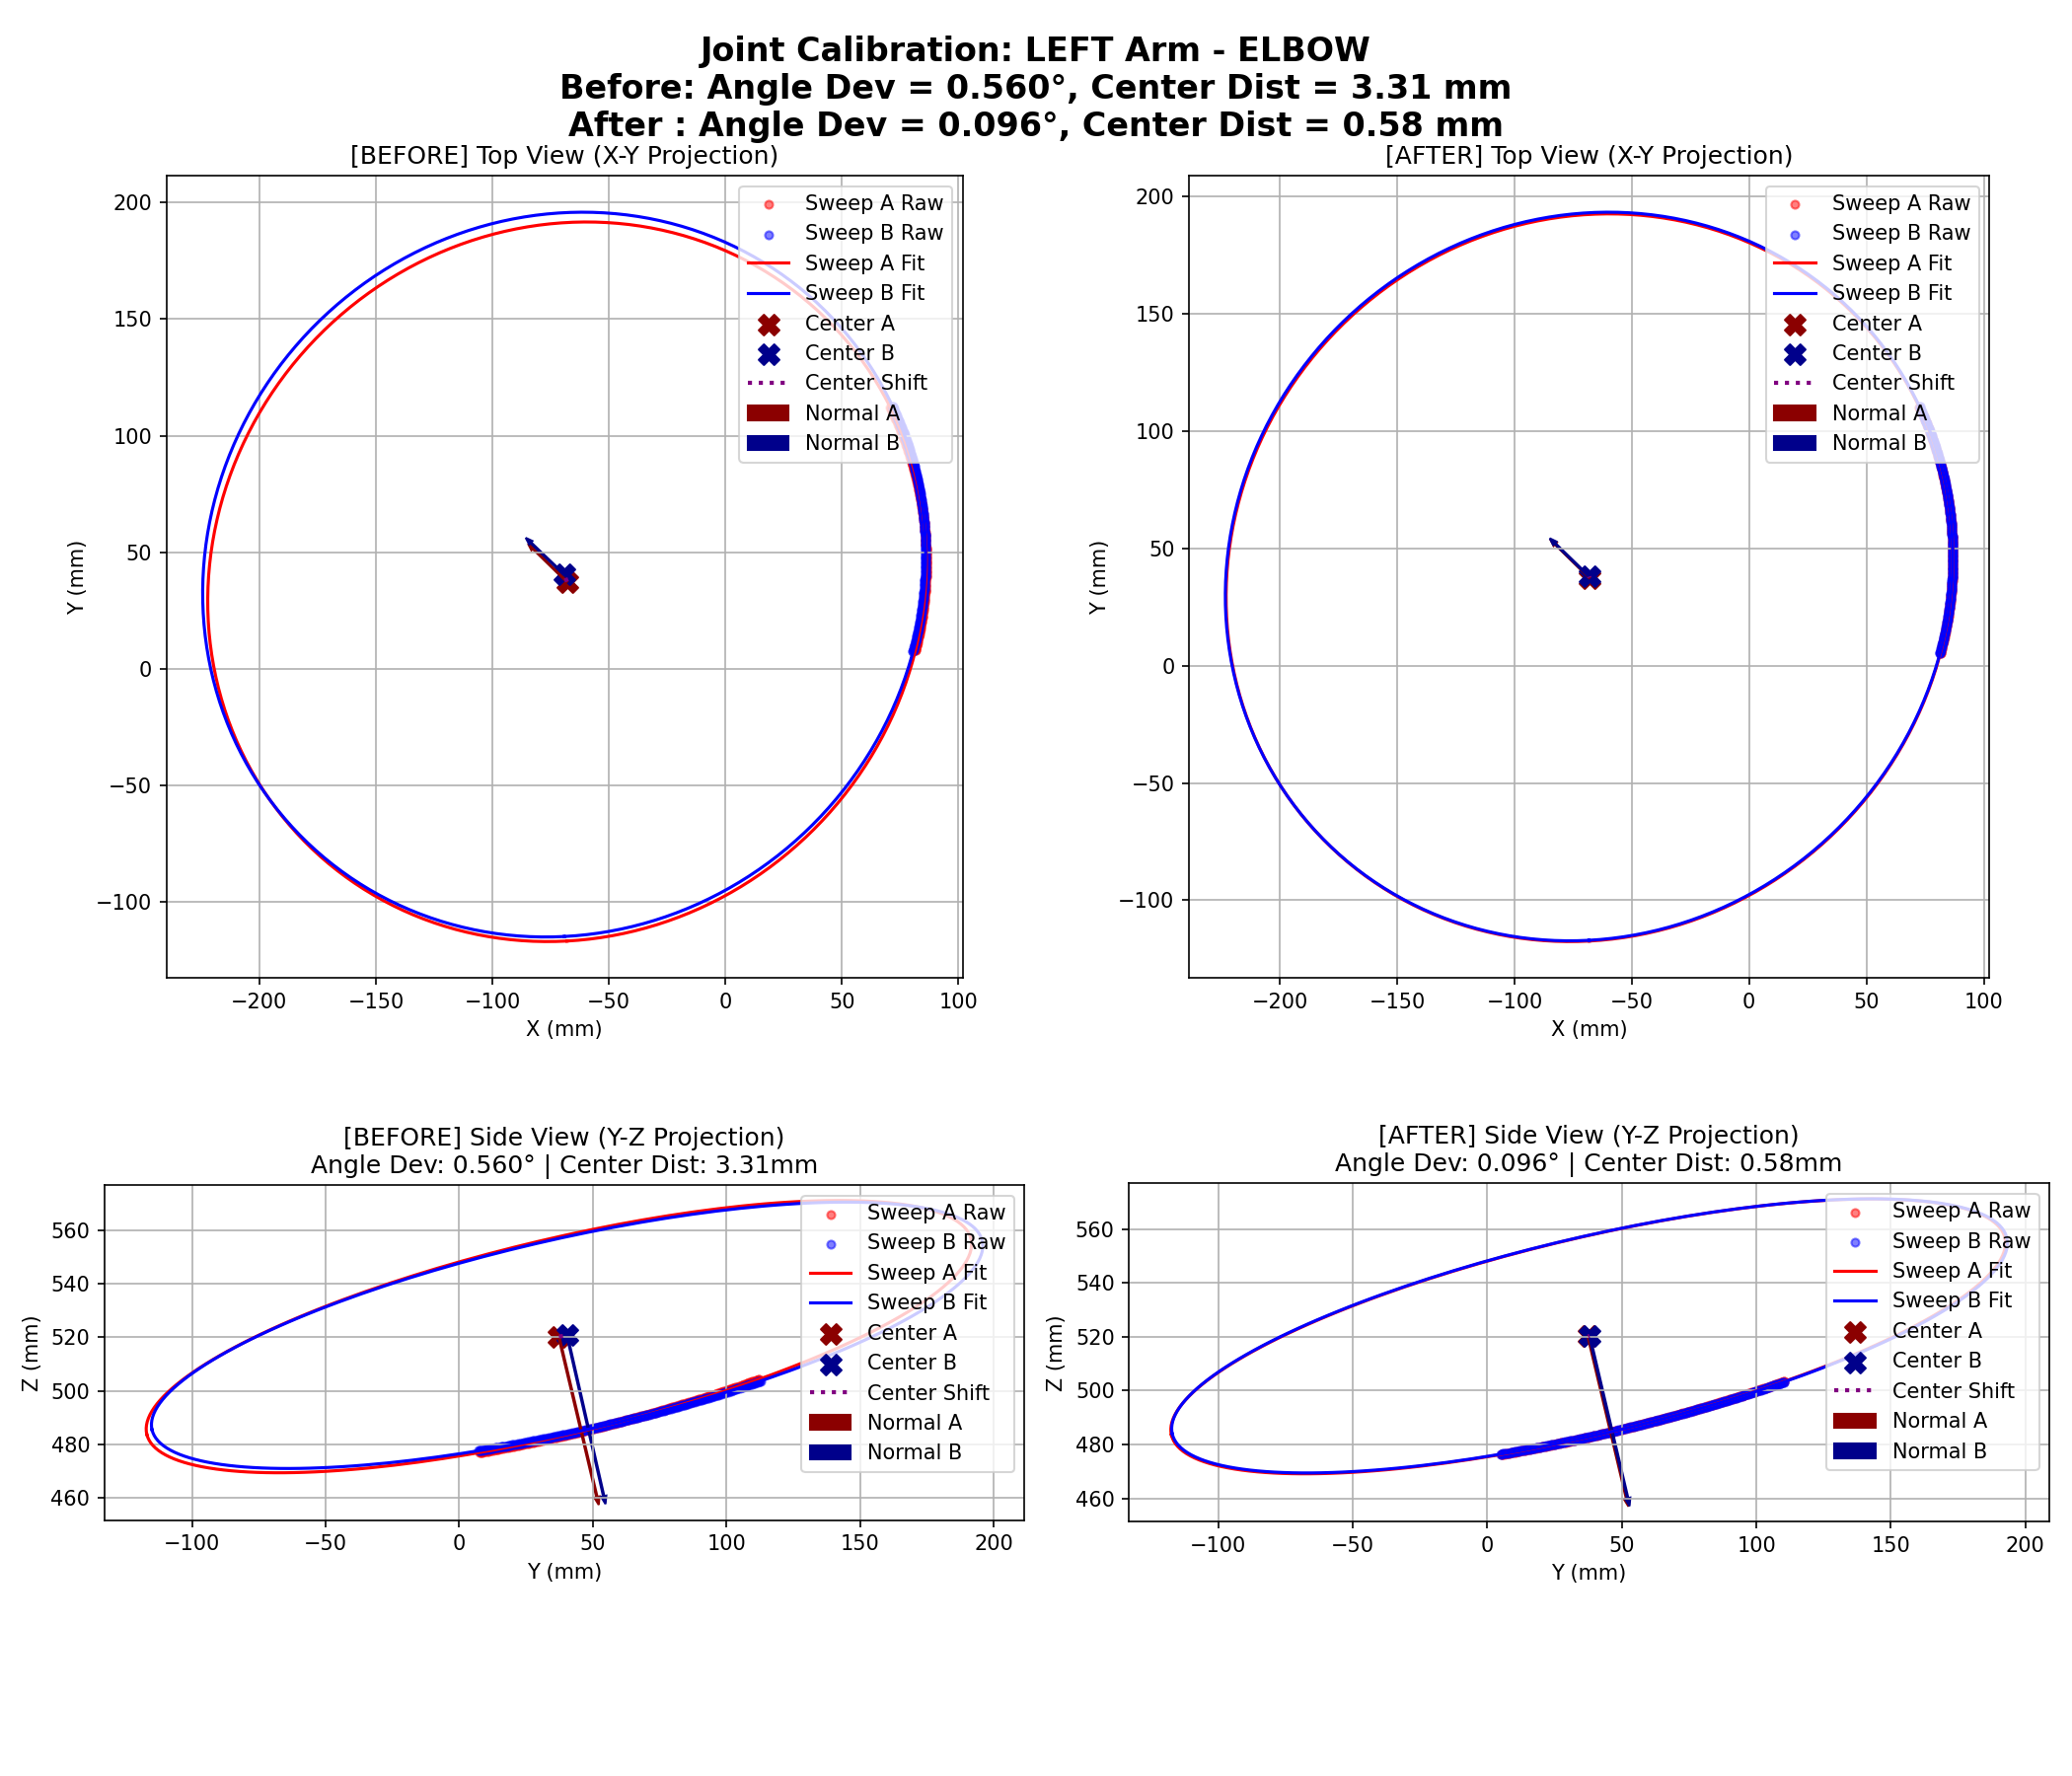
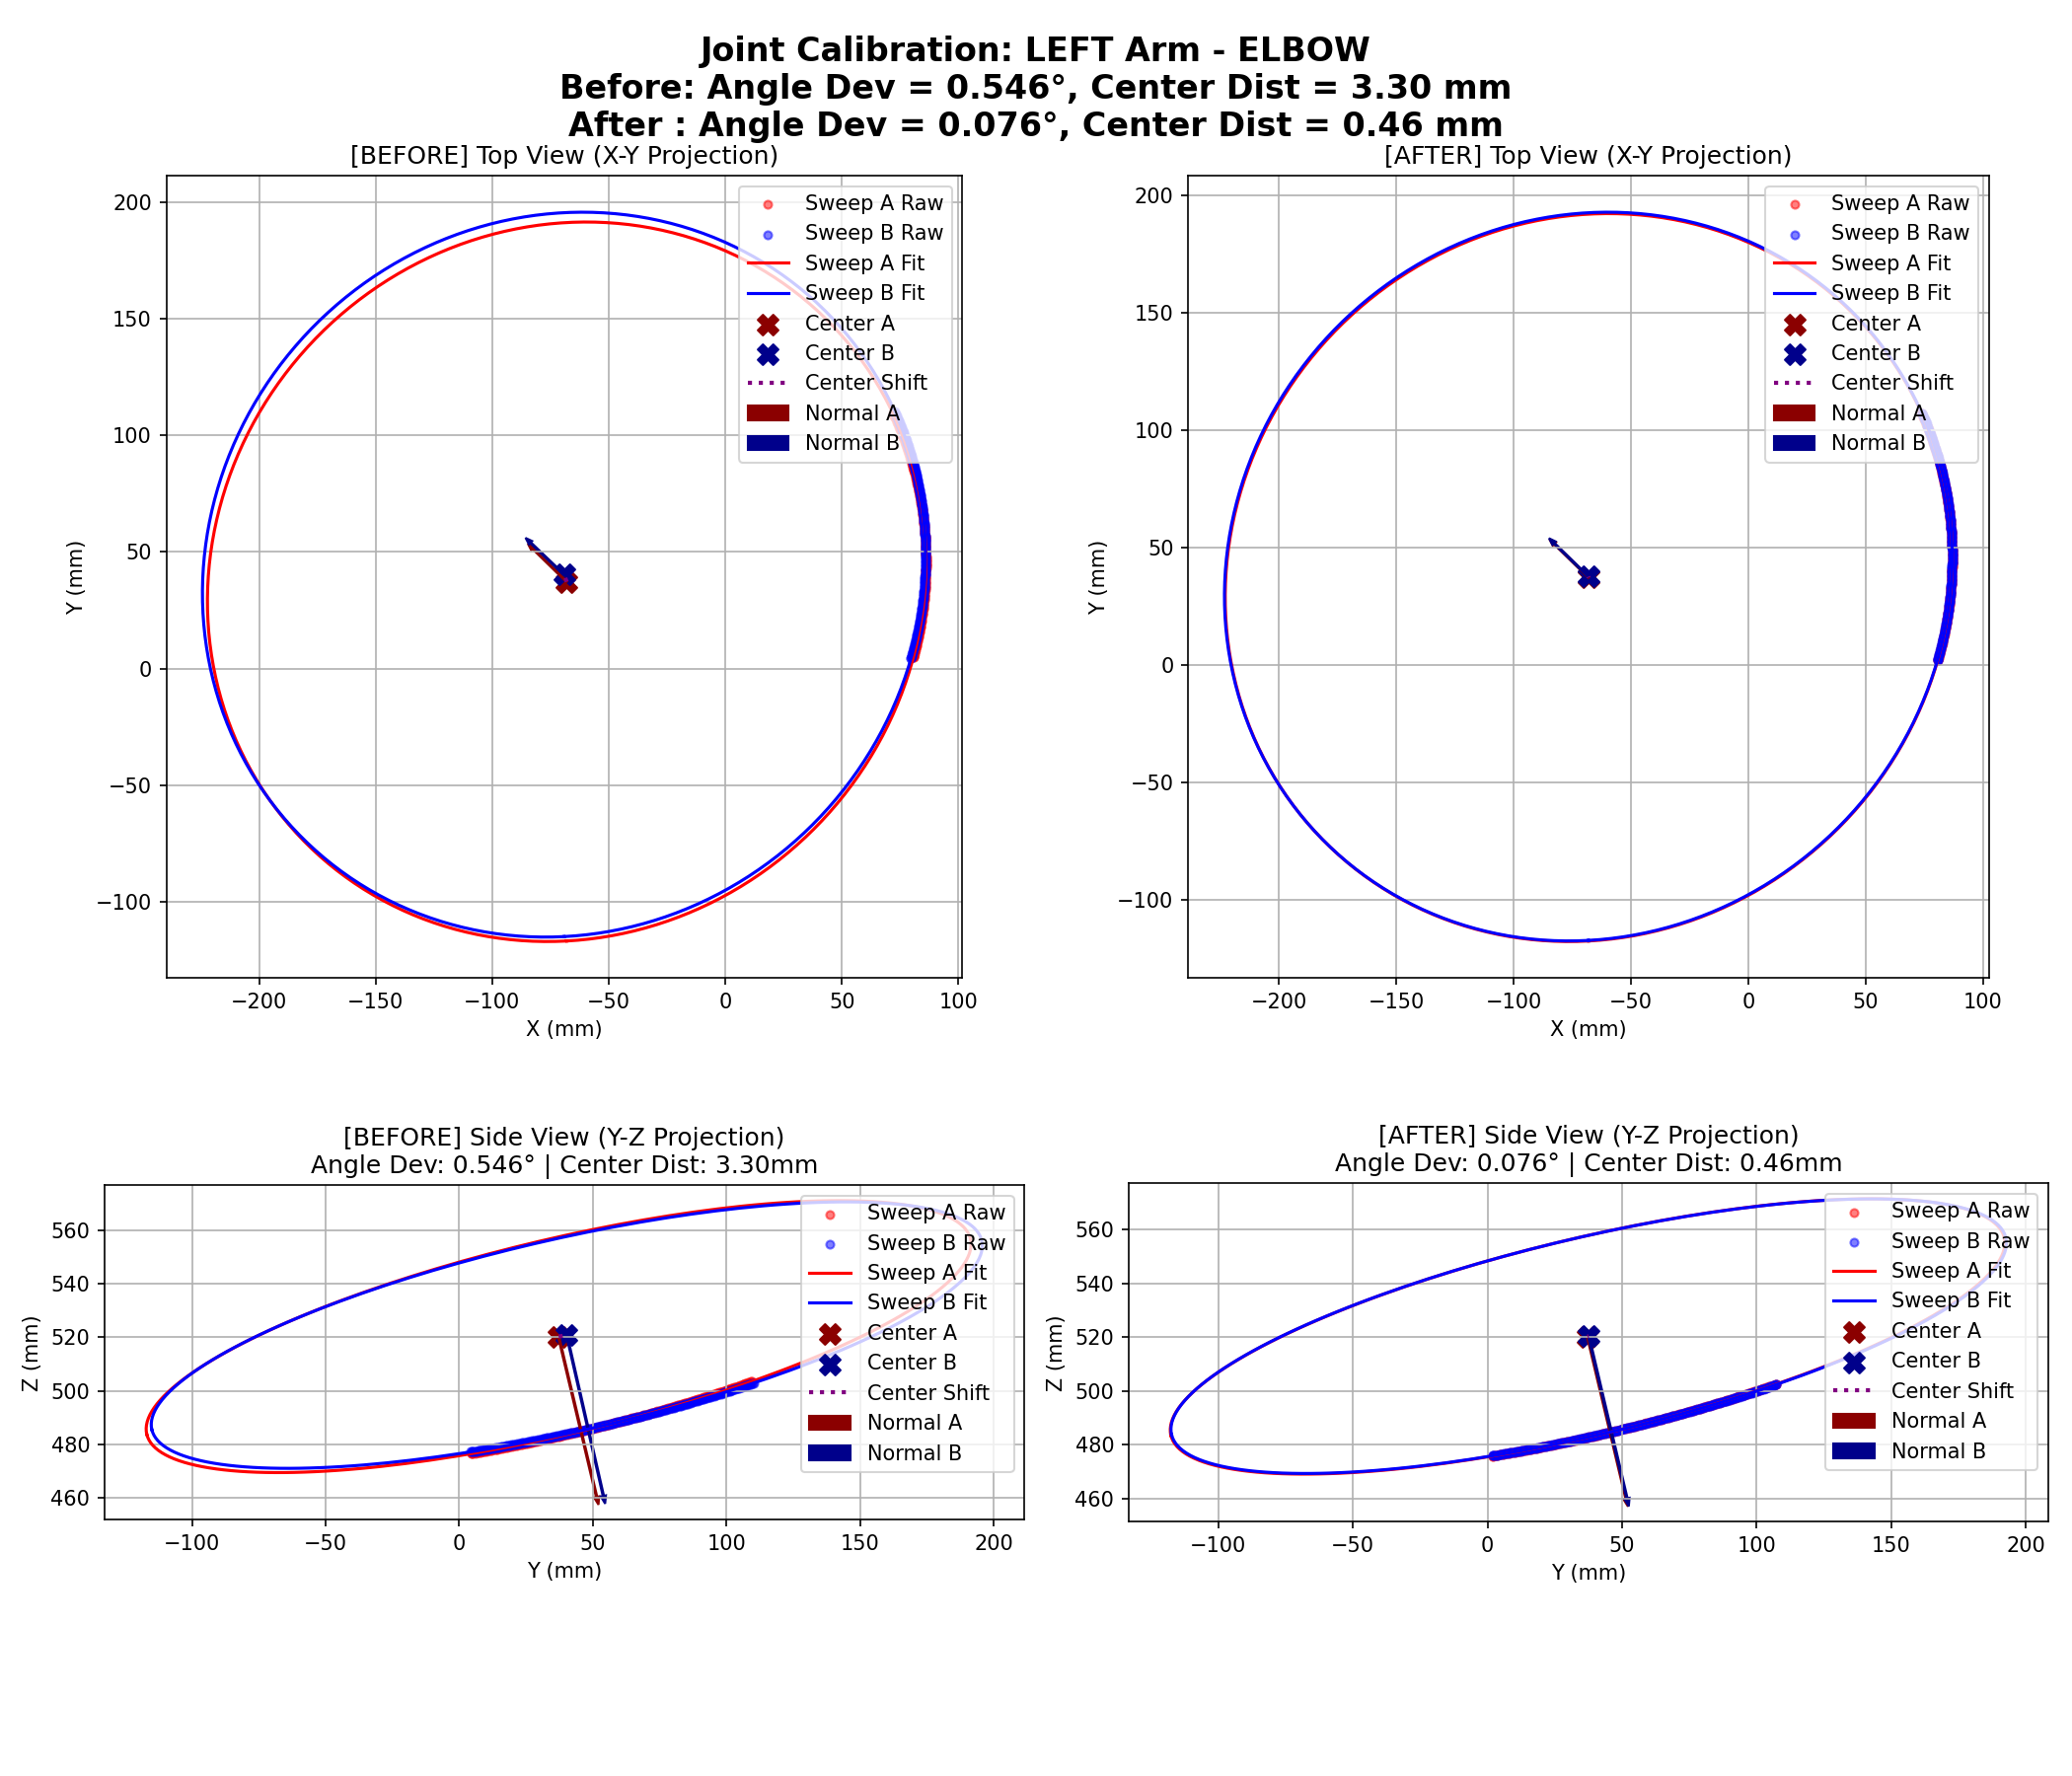
update files

diff --git a/core/calibration_optimizer.py b/core/calibration_optimizer.py
@@ -414,18 +414,7 @@ class QPCalibrationOptimizer:
             # q_upper[12] =  0.1 * D2R# lep
 
             if getattr(self, 'apply_joint_offset_limits', False) and getattr(self, 'joint_offsets_to_apply', None) is not None:
-                jo = self.joint_offsets_to_apply
-                
-                # Check version
-                is_v13 = False
-                if self.robot and self.robot != "mock_robot":
-                    try:
-                        info = self.robot.get_robot_info()
-                        if "1.3" in info.robot_model_version:
-                            is_v13 = True
-                    except:
-                        pass
-                
+                jo = self.joint_offsets_to_apply  
                 r_j3 = jo.get("right", {}).get("joint3", 0.0)
                 l_j3 = jo.get("left", {}).get("joint3", 0.0)
 
@@ -438,35 +427,19 @@ class QPCalibrationOptimizer:
                 v2_l3 = (-l_j3 + 0.001) * D2R
                 q_lower[10] = min(v1_l3, v2_l3)
                 q_upper[10] = max(v1_l3, v2_l3)
-
-                if is_v13:
-                    # In 1.3, Joint 6 is calibrated instead of Joint 5
-                    r_j6 = jo.get("right", {}).get("joint6", jo.get("right", {}).get("joint5", 0.0))
-                    l_j6 = jo.get("left", {}).get("joint6", jo.get("left", {}).get("joint5", 0.0))
+                # In 1.2, Joint 5 is calibrated
+                r_j5 = jo.get("right", {}).get("joint5", 0.0)
+                l_j5 = jo.get("left", {}).get("joint5", 0.0)
                     
-                    v1_r6 = (-r_j6 - 0.001) * D2R
-                    v2_r6 = (-r_j6 + 0.001) * D2R
-                    q_lower[6] = min(v1_r6, v2_r6)
-                    q_upper[6] = max(v1_r6, v2_r6)
+                v1_r5 = (-r_j5 - 0.001) * D2R
+                v2_r5 = (-r_j5 + 0.001) * D2R
+                q_lower[5] = min(v1_r5, v2_r5)
+                q_upper[5] = max(v1_r5, v2_r5)
 
-                    v1_l6 = (-l_j6 - 0.001) * D2R
-                    v2_l6 = (-l_j6 + 0.001) * D2R
-                    q_lower[13] = min(v1_l6, v2_l6)
-                    q_upper[13] = max(v1_l6, v2_l6)
-                else:
-                    # In 1.2, Joint 5 is calibrated
-                    r_j5 = jo.get("right", {}).get("joint5", 0.0)
-                    l_j5 = jo.get("left", {}).get("joint5", 0.0)
-                    
-                    v1_r5 = (-r_j5 - 0.001) * D2R
-                    v2_r5 = (-r_j5 + 0.001) * D2R
-                    q_lower[5] = min(v1_r5, v2_r5)
-                    q_upper[5] = max(v1_r5, v2_r5)
-
-                    v1_l5 = (-l_j5 - 0.001) * D2R
-                    v2_l5 = (-l_j5 + 0.001) * D2R
-                    q_lower[12] = min(v1_l5, v2_l5)
-                    q_upper[12] = max(v1_l5, v2_l5)
+                v1_l5 = (-l_j5 - 0.001) * D2R
+                v2_l5 = (-l_j5 + 0.001) * D2R
+                q_lower[12] = min(v1_l5, v2_l5)
+                q_upper[12] = max(v1_l5, v2_l5)
 
             lower_parts.append(q_lower)
             upper_parts.append(q_upper)
@@ -1326,96 +1299,3 @@ class CalibrationOptimizer:
         mount_to_cam_new = self.get_calibrated_mount_to_cam(xi_cam)
         head_base_to_cam_new = self.get_calibrated_head_base_to_cam(xi_cam)
         return q_arm_offset, q_head_offset, xi_cam, mount_to_cam_new, head_base_to_cam_new
-
-
-def optimize_with_divergence_check(optimizer, q_arm_list, q_head_list, T_meas_list):
-    """
-    Runs the optimization loop on an optimizer instance (either QPCalibrationOptimizer or CalibrationOptimizer)
-    with divergence detection and safe state recovery.
-    """
-    if optimizer.use_head_kinematics and q_head_list is None:
-        raise RuntimeError(
-            "Head kinematics are enabled for this ndof, but q_head_list is missing."
-        )
-
-    q_arm_offset = np.zeros(len(optimizer.arm_idx))
-    q_head_offset = np.zeros(len(optimizer.head_idx)) if optimizer.optimize_head else None
-    xi_cam = np.zeros(6)
-
-    best_err = float('inf')
-    best_q_arm_offset = q_arm_offset.copy()
-    best_q_head_offset = q_head_offset.copy() if q_head_offset is not None else None
-    best_xi_cam = xi_cam.copy()
-    consecutive_increases = 0
-
-    for it in range(optimizer.max_iter):
-        try:
-            dx, total_err = optimizer.compute_step(
-                q_arm_list,
-                q_head_list,
-                T_meas_list,
-                q_arm_offset,
-                q_head_offset,
-                xi_cam,
-            )
-        except Exception as e:
-            print(f"[WARNING] Optimization step failed with exception: {e} at iteration {it}! Reverting to best parameters and halting.")
-            q_arm_offset = best_q_arm_offset.copy()
-            if q_head_offset is not None:
-                q_head_offset = best_q_head_offset.copy()
-            xi_cam = best_xi_cam.copy()
-            break
-
-        
-        # Check for divergence before updating state
-        if np.isnan(total_err) or np.isinf(total_err):
-            print(f"[WARNING] Optimization error is numerical invalid ({total_err}) at iteration {it}! Reverting to best parameters and halting.")
-            q_arm_offset = best_q_arm_offset.copy()
-            if q_head_offset is not None:
-                q_head_offset = best_q_head_offset.copy()
-            xi_cam = best_xi_cam.copy()
-            break
-
-        if total_err < best_err:
-            best_err = total_err
-            best_q_arm_offset = q_arm_offset.copy()
-            if q_head_offset is not None:
-                best_q_head_offset = q_head_offset.copy()
-            best_xi_cam = xi_cam.copy()
-            consecutive_increases = 0
-        else:
-            consecutive_increases += 1
-
-        if total_err > best_err * 2.0:
-            print(f"[WARNING] Optimization error exploded ({total_err:.3e} > 2.0 * best_error {best_err:.3e}) at iteration {it}! Reverting to best parameters and halting.")
-            q_arm_offset = best_q_arm_offset.copy()
-            if q_head_offset is not None:
-                q_head_offset = best_q_head_offset.copy()
-            xi_cam = best_xi_cam.copy()
-            break
-
-        if consecutive_increases >= 5:
-            print(f"[WARNING] Optimization error has been increasing consecutively for {consecutive_increases} iterations (current error: {total_err:.3e}, best error: {best_err:.3e}) at iteration {it}! Reverting to best parameters and halting.")
-            q_arm_offset = best_q_arm_offset.copy()
-            if q_head_offset is not None:
-                q_head_offset = best_q_head_offset.copy()
-            xi_cam = best_xi_cam.copy()
-            break
-
-        q_arm_offset, q_head_offset, xi_cam = optimizer.apply_update(
-            q_arm_offset,
-            q_head_offset,
-            xi_cam,
-            dx,
-        )
-
-        print(f"[{it:02d}] |dx|={np.linalg.norm(dx):.3e}, |err|={total_err:.3e}")
-
-        if np.linalg.norm(dx) < optimizer.eps:
-            print("Converged.")
-            break
-
-    mount_to_cam_new = optimizer.get_calibrated_mount_to_cam(xi_cam)
-    head_base_to_cam_new = optimizer.get_calibrated_head_base_to_cam(xi_cam)
-    return q_arm_offset, q_head_offset, xi_cam, mount_to_cam_new, head_base_to_cam_new
-

diff --git a/scratch/test_qp_bounds.py b/scratch/test_qp_bounds.py
@@ -1,0 +1,140 @@
+import os
+import sys
+import numpy as np
+
+# Ensure workspace paths are in sys.path
+sys.path.append("/home/rainbow/camera_ws")
+
+from core.calibration.mock_robot import OfflineRobot
+from core.calibration_core import load_npz_dataset, get_both_arm_config, get_head_config
+from core.calibration_optimizer import QPCalibrationOptimizer
+
+def load_offline_robot():
+    import rby1_sdk.dynamics as rd
+    urdf_path = "/home/rainbow/sdk/rby1-sdk/models/rby1m/urdf/model_v1.2.urdf"
+    robot_config = rd.load_robot_from_urdf(urdf_path, "base")
+    dyn_robot = rd.Robot(robot_config)
+    return OfflineRobot(dyn_robot, "m", "1.2")
+
+def run_opt(dataset_path, apply_limits, use_old_bracket, use_symmetric_bounds):
+    print(f"\n=======================================================")
+    print(f"Running QP Optimization for dataset: {os.path.basename(dataset_path)}")
+    print(f"Apply Joint Offset Limits (apply_limits): {apply_limits}")
+    print(f"Use Old Bracket Nominals: {use_old_bracket}")
+    print(f"Use Symmetric Bounds for J1/J3: {use_symmetric_bounds}")
+    print(f"=======================================================")
+    
+    # Load dataset
+    q_arm, q_head, T_meas = load_npz_dataset(dataset_path)
+    
+    # Set up offline robot
+    robot = load_offline_robot()
+    
+    # Initialize robot state torso joints with the actual torso angles used during collection
+    model = robot.model()
+    torso_angles = np.radians([0, 30, -60, 30, 0, 0])
+    for idx, val in zip(model.torso_idx, torso_angles):
+        robot.get_state().position[idx] = val
+
+    cfg = get_both_arm_config(robot.model())
+    head_cfg = get_head_config(robot.model())
+        
+    active_arms = ["right", "left"]
+    ee_links = cfg["ee_links"]
+    
+    # Choose bracket nominals
+    if use_old_bracket:
+        # Old values from git diff before they were shortened
+        ee_to_marker_nom = {
+            "left": [0.0, 0.07748, -0.07162, 90.02, -0.00, -0.00],
+            "right": [0.0, -0.04704, 0.06292, 88.97, -0.29, 182.81]
+        }
+    else:
+        ee_to_marker_nom = cfg["ee_to_marker_nom"]
+        
+    print(f"EE to Marker Left: {ee_to_marker_nom['left']}")
+    print(f"EE to Marker Right: {ee_to_marker_nom['right']}")
+    
+    joint_offsets = None
+    if apply_limits:
+        # Use J3 and J5 offsets (locked to config values)
+        # For simplicity in this test, we load from setting.yaml
+        import yaml
+        with open("/home/rainbow/camera_ws/config/setting.yaml", "r") as f:
+            data = yaml.safe_load(f)
+        jo = data.get("joint_offset", {})
+        joint_offsets = {
+            "right": {
+                "joint3": jo.get("right", {}).get("joint3", 0.0),
+                "joint5": jo.get("right", {}).get("joint5", 0.0),
+            },
+            "left": {
+                "joint3": jo.get("left", {}).get("joint3", 0.0),
+                "joint5": jo.get("left", {}).get("joint5", 0.0),
+            }
+        }
+
+    optimizer = QPCalibrationOptimizer(
+        robot=robot,
+        arm_idx=cfg["arm_idx"],
+        ee_links=ee_links,
+        mount_to_cam_nom=cfg["mount_to_cam_nom"],
+        head_base_to_cam_nom=cfg.get("head_base_to_cam_nom"),
+        ee_to_marker_nom=ee_to_marker_nom,
+        head_idx=head_cfg["head_idx"],
+        use_sag=False,
+        optimize_head=False,
+        optimize_camera=False,
+        active_arms=active_arms,
+        estimate_measurement_noise=True,
+        apply_joint_offset_limits=apply_limits,
+        joint_offsets_to_apply=joint_offsets,
+    )
+    
+    # Override bounds dynamically if requested
+    D2R = np.pi / 180.0
+    if use_symmetric_bounds:
+        # Modify J1 (shoulder roll) to be symmetric [-10, 10] deg
+        optimizer.joint_offset_lower[1] = -10.0 * D2R
+        optimizer.joint_offset_upper[1] =  10.0 * D2R
+        optimizer.joint_offset_lower[8] = -10.0 * D2R
+        optimizer.joint_offset_upper[8] =  10.0 * D2R
+        
+        # Modify J3 (elbow pitch) to be symmetric [-10, 10] deg if not overridden by apply_limits
+        if not apply_limits:
+            optimizer.joint_offset_lower[3] = -10.0 * D2R
+            optimizer.joint_offset_upper[3] =  10.0 * D2R
+            optimizer.joint_offset_lower[10] = -10.0 * D2R
+            optimizer.joint_offset_upper[10] =  10.0 * D2R
+            
+    # Run optimization
+    q_arm_offset, q_head_offset, xi_cam, mount_to_cam_new, head_base_to_cam_new = optimizer.optimize(
+        q_arm,
+        q_head,
+        T_meas
+    )
+    
+    right_offset = np.rad2deg(q_arm_offset[:7])
+    left_offset = np.rad2deg(q_arm_offset[7:])
+    
+    joint_names = ["shoulder_yaw (J0)", "shoulder_roll (J1)", "shoulder_pitch (J2)", "elbow_pitch (J3)", "wrist_yaw (J4)", "wrist_pitch (J5)", "wrist_roll (J6)"]
+    print("--- Right Arm Offsets ---")
+    for name, val in zip(joint_names, right_offset):
+        print(f"  {name}: {val:+.4f} deg")
+        
+    print("--- Left Arm Offsets ---")
+    for name, val in zip(joint_names, left_offset):
+        print(f"  {name}: {val:+.4f} deg")
+        
+    print(f"--- Camera Extrinsics (rpy deg, xyz mm) ---")
+    print(f"  rpy: {np.round(xi_cam[:3], 4)} deg")
+    print(f"  xyz: {np.round(xi_cam[3:] * 1000.0, 4)} mm")
+
+if __name__ == "__main__":
+    dataset_path = "/home/rainbow/camera_ws/result/dataset_20260608_150837.npz"
+        
+    print("=================== TEST 1: ORIGINAL DEFAULT BOUNDS (LIMITS FALSE) ===================")
+    run_opt(dataset_path, apply_limits=False, use_old_bracket=True, use_symmetric_bounds=False)
+    
+    print("\n=================== TEST 2: PROPOSED SYMMETRIC BOUNDS (LIMITS FALSE) ===================")
+    run_opt(dataset_path, apply_limits=False, use_old_bracket=True, use_symmetric_bounds=True)

diff --git a/scratch/inspect_dataset.py b/scratch/inspect_dataset.py
@@ -1,0 +1,16 @@
+import numpy as np
+
+path = "/home/rainbow/camera_ws/result/dataset_20260616_113303.npz"
+data = np.load(path)
+for k in data.files:
+    print(f"Key: {k}, Shape: {data[k].shape}")
+    
+# Let's print some q values
+print("\nq_arm sample (first 2):")
+print(data['q_arm'][:2])
+
+# Let's print some marker measurements
+print("\nmarker right (first sample):")
+print(data['marker'][0, 0])
+print("\nmarker left (first sample):")
+print(data['marker'][0, 1])

diff --git a/scratch/inspect_datasets.py b/scratch/inspect_datasets.py
@@ -1,0 +1,14 @@
+import numpy as np
+import os
+
+result_dir = "/home/rainbow/camera_ws/result"
+for name in sorted(os.listdir(result_dir)):
+    if name.endswith(".npz"):
+        path = os.path.join(result_dir, name)
+        data = np.load(path)
+        print(f"\nDataset: {name}")
+        for key in data.files:
+            val = data[key]
+            print(f"  {key}: shape={val.shape}, dtype={val.dtype}")
+            if "arm" in key or "q" in key:
+                print(f"    first element: {val[0] if len(val) > 0 else 'empty'}")